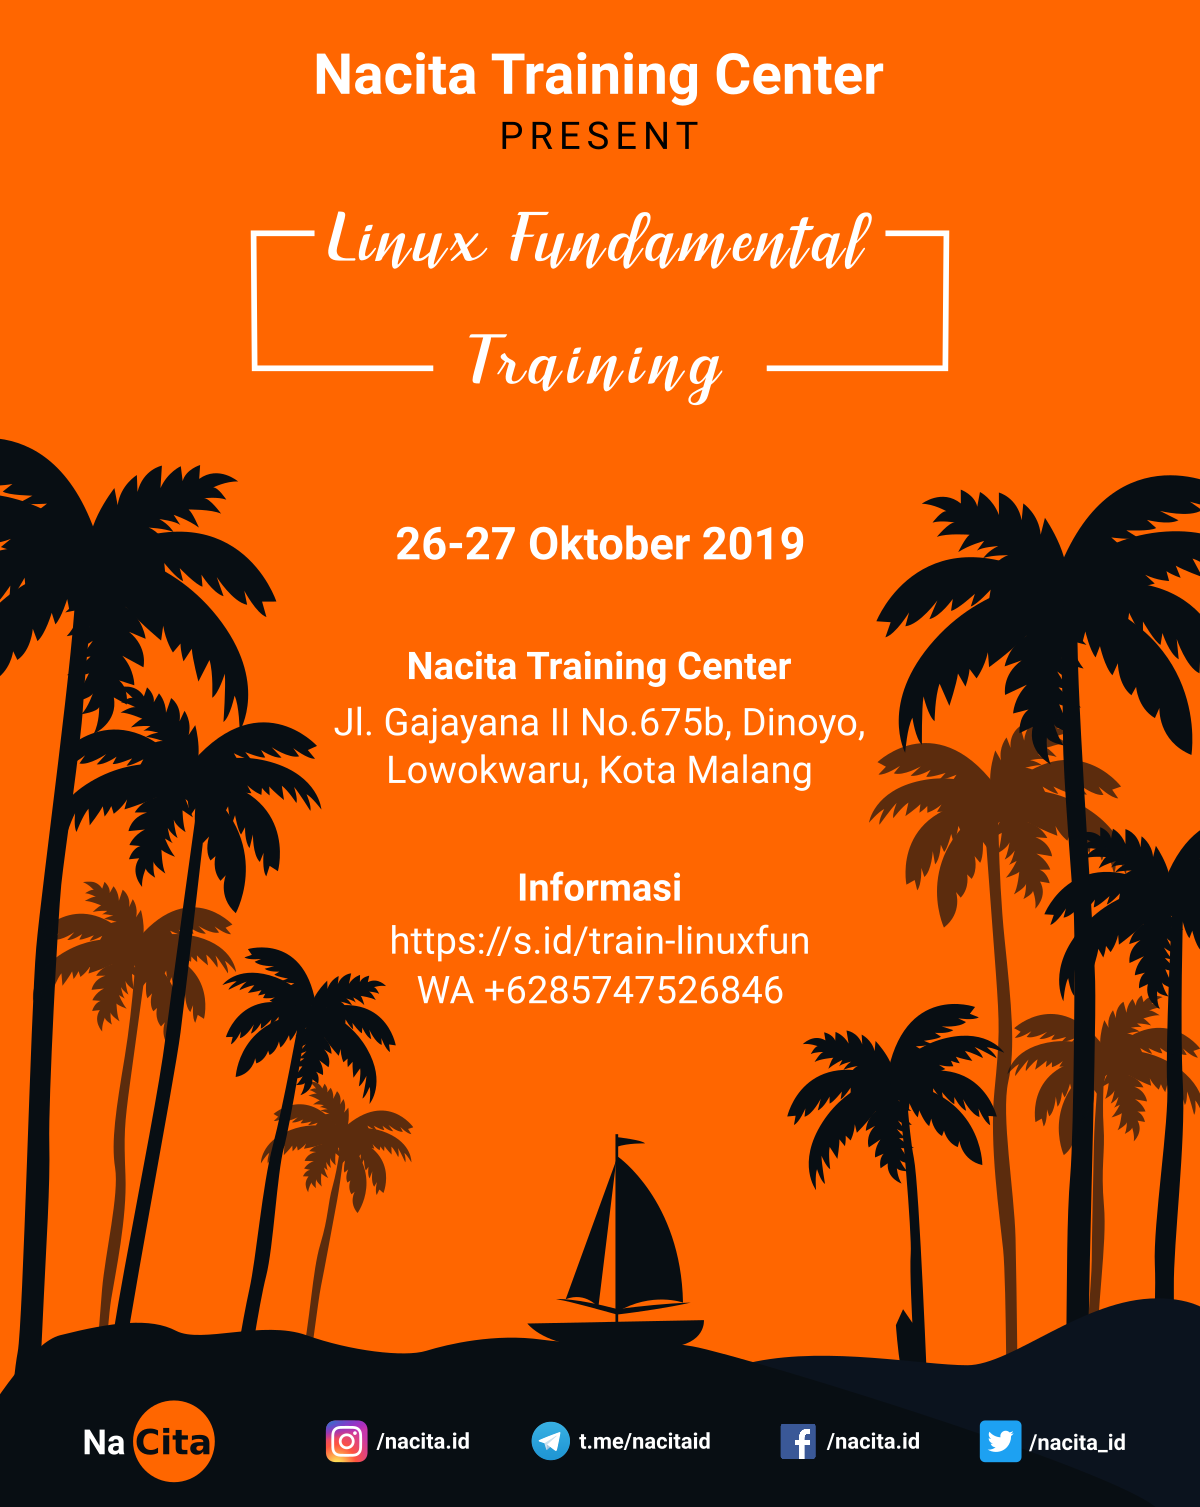
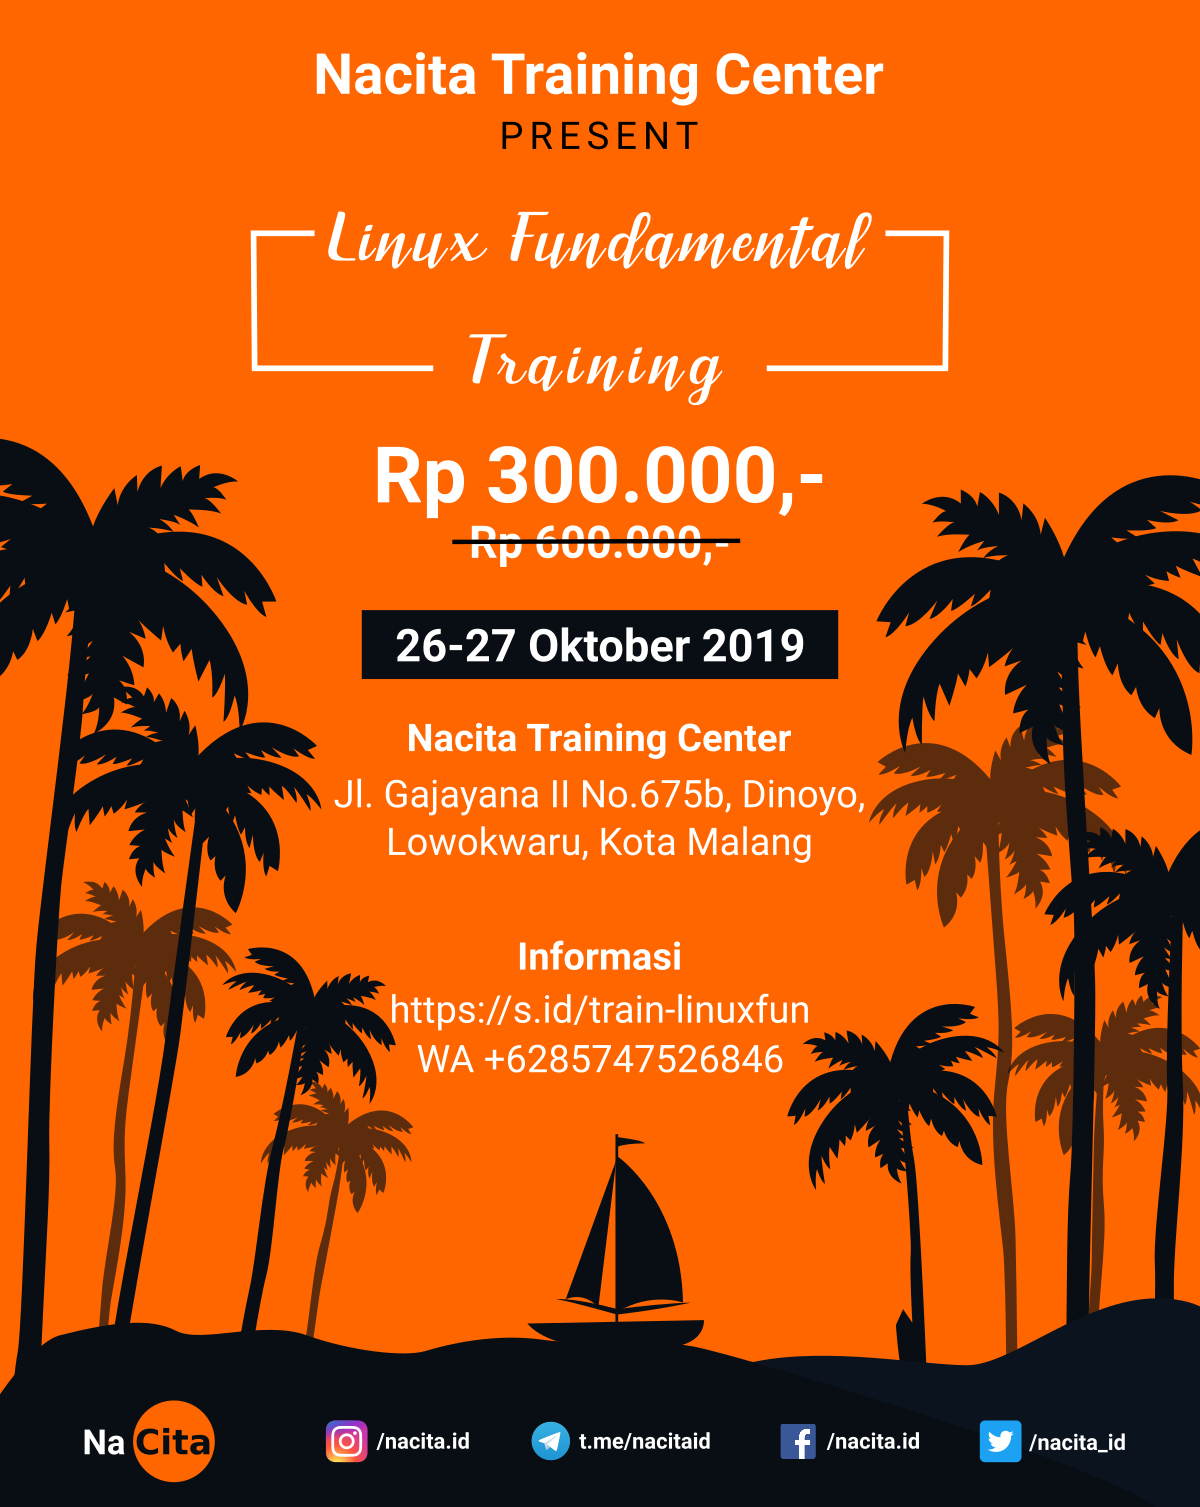
update linux fundamental

Changed region(s): [[0.2775, 0.4054, 0.7092, 0.7173], [0.3083, 0.2807, 0.6783, 0.3743]]

diff --git a/training/linux-fundamental.md b/training/linux-fundamental.md
@@ -58,5 +58,12 @@ Rp 600 rb/Peserta.
 ### Pelaksanaan
 26-27 Oktober 2019
 
+### Trainer
+- **Samsul Ma'arif** - *DevOps Engineer*
+
+### Tempat
+[**Nacita Training Center**](https://s.id/NacitaMalang)<br>
+Jl. Gajayana II No.675b, Dinoyo, Lowokwaru, Kota Malang
+
 ### Training lainnya
 - Silakan buka halaman [Semua Training](/training/  )
